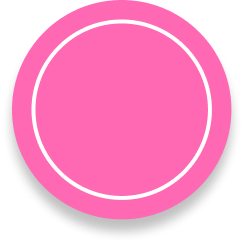
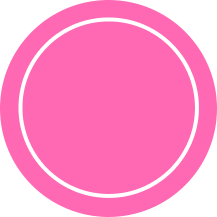
pulse animation

diff --git a/src/index.css b/src/index.css
@@ -156,6 +156,9 @@ button.restart {
   background-size: contain;
   background-repeat: no-repeat;
   right: 95px;
+  animation: pulse 1s infinite;
+  border-radius: 50%;
+  box-shadow: 0 0 0 0 rgba(0, 0, 0, 1);
 }
 .pictime{
    width: 100%;
@@ -166,4 +169,21 @@ button.restart {
     top: 30px;
     left: 210px;
     height: 37px;
+}
+
+@keyframes pulse {
+	0% {
+		transform: scale(0.95);
+		box-shadow: 0 0 0 0 rgba(255, 255, 255, 0.7)
+	}
+
+	70% {
+		transform: scale(1);
+		box-shadow: 0 0 0 25px rgba(255, 105, 180, 0)
+	}
+
+	100% {
+		transform: scale(0.95);
+		box-shadow: 0 0 0 0 rgba(255, 105, 180, 0.0)
+	}
 }
